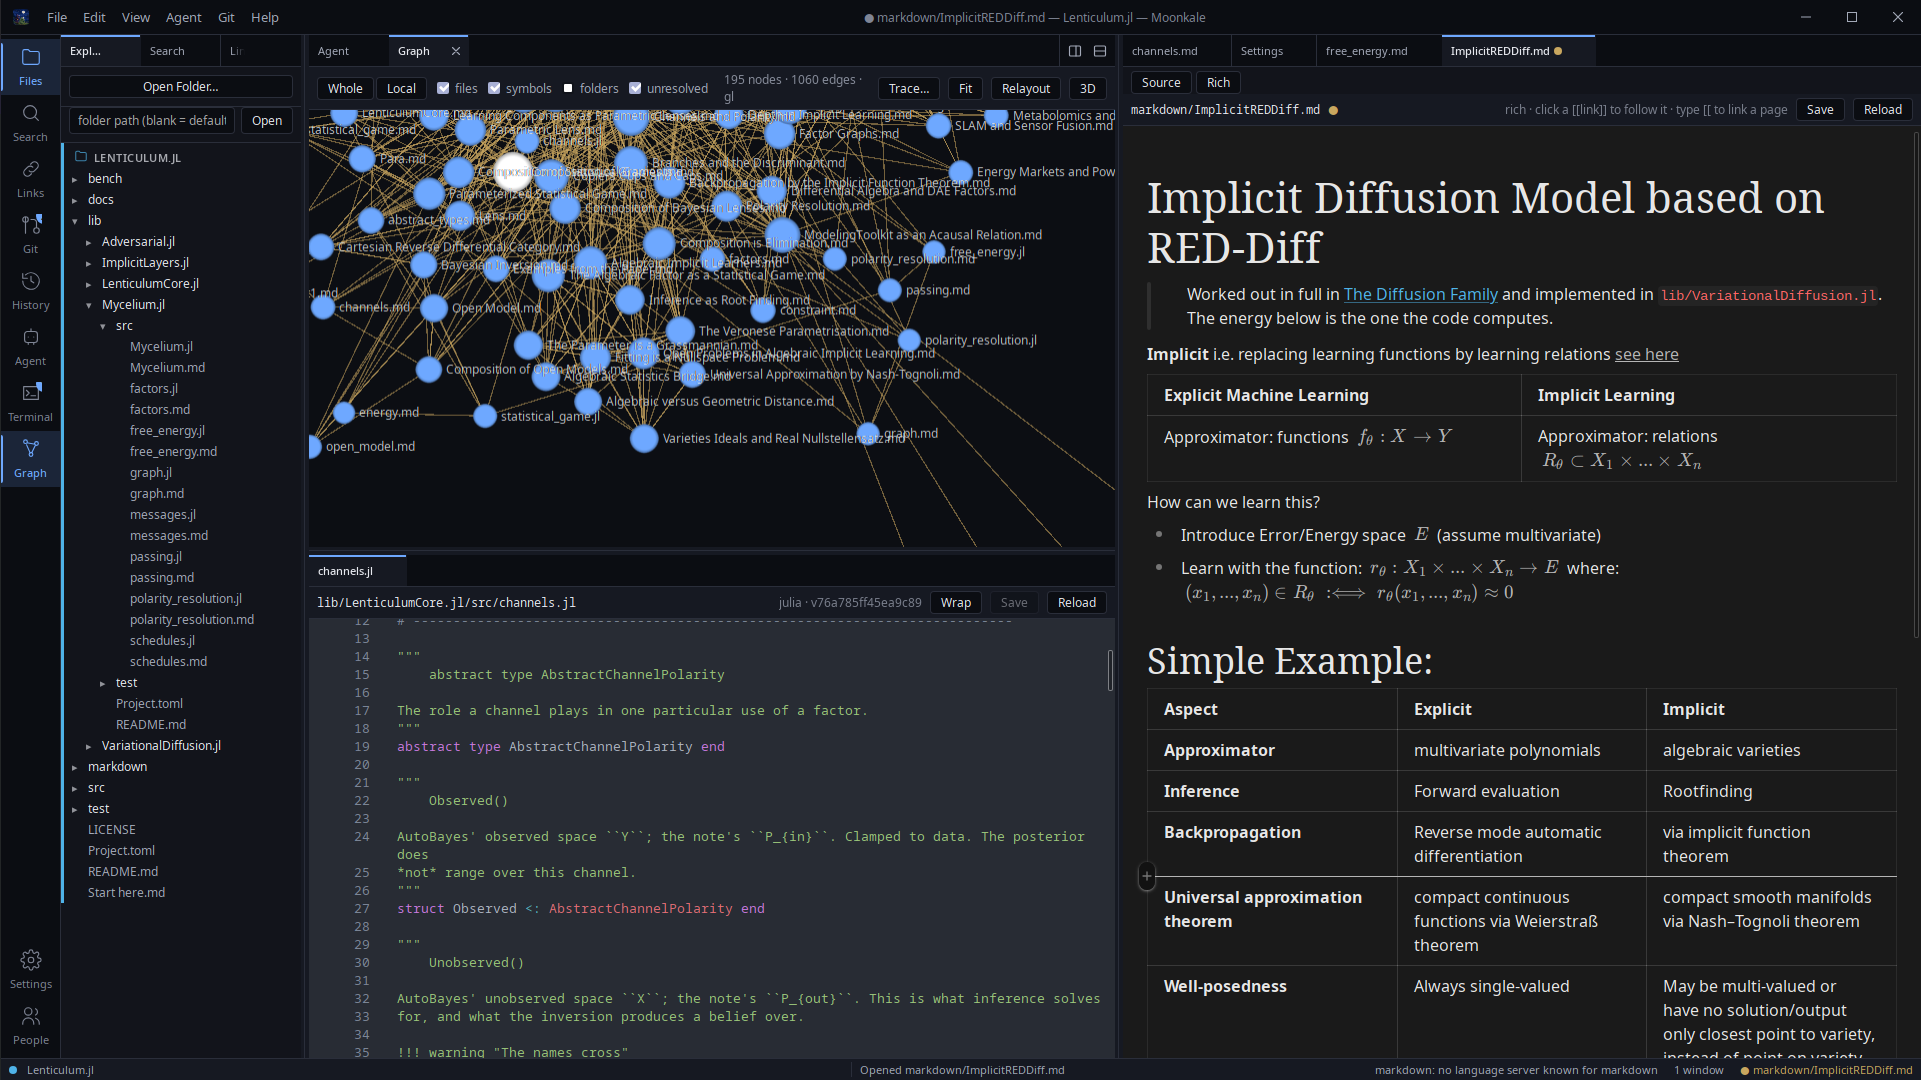
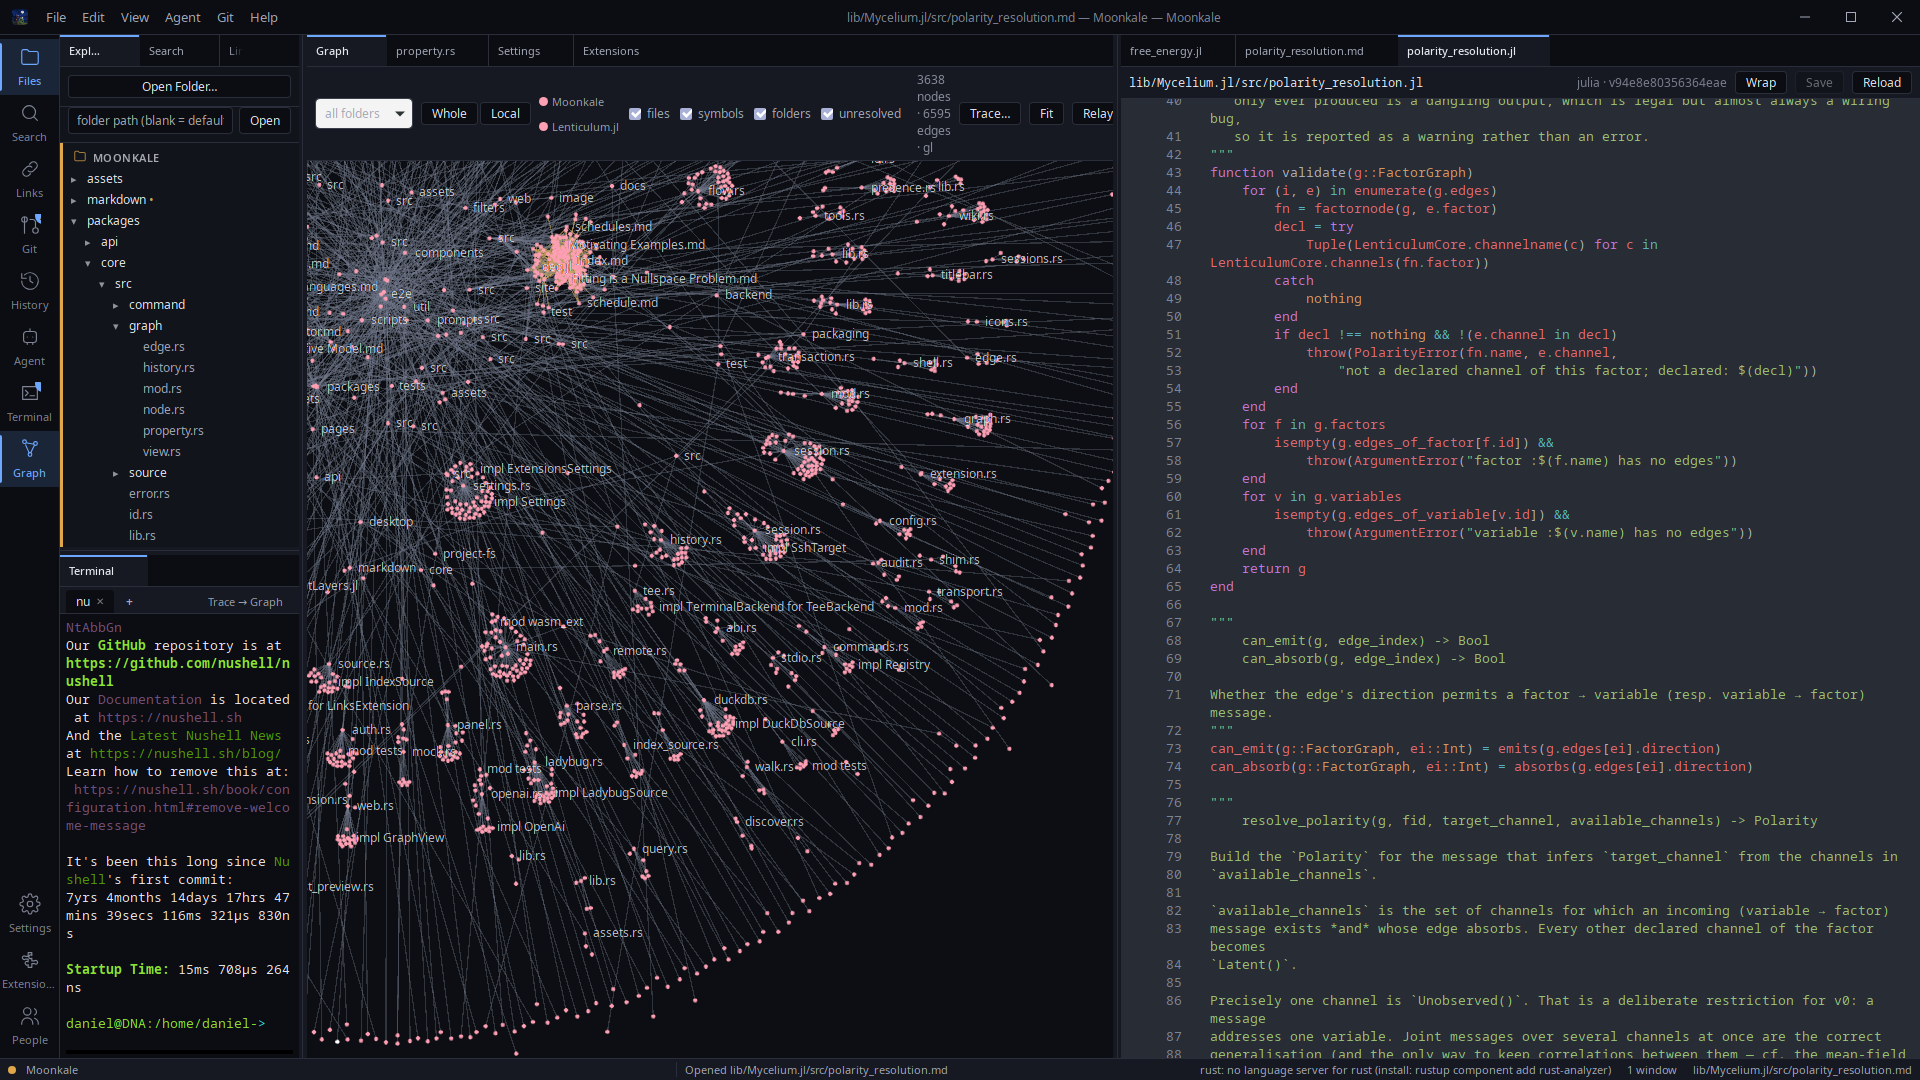
edit README

diff --git a/README.md b/README.md
@@ -1,57 +1,96 @@
 ![Moonkale — a wizard tending a kale plant under a full moon](assets/MoonkaleBanner.png)
 
 <p align="center">
-  <img src="assets/UIDesktop.png" alt="Moonkale on the desktop: activity bar, Explorer, the vault as a graph, a note in the rich editor" width="78%">
+  <img src="assets/UIDesktop.png" alt="Moonkale on the desktop: activity bar, Explorer, the vault as a graph, a file in the code editor" width="78%">
   <img src="assets/UIAndroid.jpg" alt="Moonkale on a phone: rich note above a Rust file, the bottom bar" width="20%">
 </p>
-<p align="center"><sub>Desktop (2026-09-20): the vault's graph next to a note in the rich editor · Phone (Galaxy S10e): a note and a Rust file with the bottom bar.</sub></p>
 
-# Moonkale (Under development)
+# Moonkale
 
 **A graph-native code and knowledge editor.**
 
 [![Latest release](https://img.shields.io/github/v/release/MathStruct/Moonkale?label=download&color=4c8dff)](https://github.com/MathStruct/Moonkale/releases/latest)
-[![Vault](https://img.shields.io/badge/docs-vault-7bd88f)](https://mathstruct.github.io/Moonkale/)
+[![Docs](https://img.shields.io/badge/docs-vault-7bd88f)](https://mathstruct.github.io/Moonkale/)
 [![License: MIT](https://img.shields.io/badge/license-MIT-lightgrey)](LICENSE)
 
-**⬇ Download:** [**the latest release**](https://github.com/MathStruct/Moonkale/releases/latest)
-— Linux (tarball, `.deb`, Arch package, AppImage), Android (`.apk`), Windows
-(`.msi` / `.exe`, unsigned) and macOS (`.dmg`, unsigned). Install instructions
-per platform: [Install](https://mathstruct.github.io/Moonkale/packaging/Install).
-The server alone runs in a container:
-`docker run -p 8080:8080 -v /your/notes:/data ghcr.io/mathstruct/moonkale-server`
-([what the two binaries are](https://mathstruct.github.io/Moonkale/packaging/Two-Binaries)).
+> [!WARNING]
+> **Moonkale is a prototype.** Expect bugs, missing pieces and significant
+> breaking changes: settings, file formats, the extension API and the
+> package layout will all change without migration paths. Try it, and
+> please don't rely on it yet.
 
-Moonkale opens *folders and databases* — a source tree, a Postgres schema, a
-TypeDB or LadybugDB graph, a Redis keyspace, an Obsidian-style wiki — and shows
-them as **one graph**. Every editor is a view on that graph: a code editor with
-language-server support, a WYSIWYG Markdown/Typst editor with wiki-links, a
-table/SQL editor, a GPU-rendered 2D/3D graph view that stays fluid at 100k+
-nodes, a drag-and-drop flow editor (first target: building Lux.jl models), and
-a terminal whose stack traces become clickable subgraphs. Language servers,
-indexers and LLM agents all work on the same graph through the same doors.
+## The idea
 
-It is built in **Rust** with [Dioxus](https://dioxuslabs.com) for desktop, web
-and mobile from a single codebase, and it is **extension-driven**: the built-in
-editors are extensions with no privileged access, so anything they can do, a
-third-party extension can do.
+Code editors, note-taking apps, database tools and no-code tools are separate
+worlds. Moonkale opens folders *and* databases and shows everything as
+**one graph**: files, symbols, wiki-links, tables and relations are nodes and
+edges, and every editor (code, rich text, table, graph, flow, terminal) is a
+view on that graph. Language servers, indexers and LLM agents work on the same
+graph through the same interface as the user.
 
-Moonkale grew out of the frustration that code editors, knowledge editors,
-database tools and no-code tools are separate worlds — and that none of them
-were built with graph databases or retrieval-augmented agents in mind.
+It is written in **Rust** with [Dioxus](https://dioxuslabs.com): one codebase
+for desktop, web and Android. It is **extension-driven**: the built-in editors
+are extensions with no privileged access.
 
-## New here?
+The long-term goal is a graphical editor for factor graphs
+([Lenticulum.jl](https://mathstruct.github.io/Moonkale/architecture/Julia-and-Lenticulum)),
+where a diagram stays a diagram instead of becoming code.
 
-[Getting Started](https://mathstruct.github.io/Moonkale/Getting-Started) —
-Moonkale explained for people who already use VS Code and Obsidian: the
-four ideas, what maps to what, a ten-minute first session.
+## What works today
+
+Tested on Linux (desktop and browser) and on one Android phone:
+
+- **Folders**, local or on another machine over SSH, with an Explorer, quick
+  open, a command palette, and find & replace across files.
+- **Code editing** with syntax highlighting for the core languages and
+  language-server support (diagnostics, hover, go to definition, completion,
+  rename). There are two editors: CodeMirror, and a pure-Rust one.
+- **Notes**: a WYSIWYG Markdown editor with `[[wiki-links]]`, backlinks, KaTeX
+  formulas and front matter, plus a Typst preview.
+- **Graph view** in 2D and 3D, GPU-rendered, for a folder's files, links and
+  symbols, usable with 100k nodes.
+- **Databases**: SQLite, DuckDB (including folders of CSV/Parquet files) and
+  LadybugDB (Cypher), as tables and as graphs.
+- **Terminal**: stack traces in it become clickable graphs.
+- **Git**: changes, diffs, staging, commits and history as a graph.
+- **Search**: keyword search, plus meaning-based search when an embedding
+  model is configured.
+- **Change history**: a record of every edit (yours, an agent's or git's),
+  with restore.
+- **LLM agents**: Claude Code (on a subscription), Anthropic, OpenAI-compatible
+  and Ollama. They read, search, query and edit behind an approval gate. There
+  is also an MCP endpoint for external agents.
+- **Extensions**: WebAssembly extensions, and a node-based flow editor with a
+  Lux.jl block library (off by default).
+- **Server mode**: `moonkale-server` serves the same app to a browser or to
+  the phone.
+
+Windows and macOS builds are produced but **untested**: nobody on the project
+has those machines.
+
+## Planned
+
+- More data sources: Postgres, Turso, TypeDB, HelixDB, FalkorDB, Redis. These
+  are only stubs today.
+- Projects that combine several sources, and links across them.
+- The Julia side, in a separate repository: a Julia package source, a
+  ModelingToolkit editor, and the Lenticulum.jl factor-graph editor.
+- Automatic refresh of the file tree when files change on disk, and a
+  refresh button for sources that aren't watched.
+- Shared editing on one server: accounts, presence, merged edits.
+- Comments anchored to files, rows and nodes, with GitHub issues as one
+  kind of comment. Also Jupyter notebooks and Unicode input (`\int` → ∫).
+- Fewer JavaScript dependencies: the terminal and a code editor already have
+  Rust replacements.
+
+The design notes behind all of this, one note per decision, are the
+[documentation site](https://mathstruct.github.io/Moonkale/).
 
 ## Install
 
-Packages for every release are on the
-[releases page](https://github.com/MathStruct/Moonkale/releases). Releases are
-named `moonkale-YYMMDD-prototype-<commit>` (e.g. `moonkale-260926-prototype-342cd5d`)
-and `<release>` below stands for that name; expect breaking changes between them.
+Download from the [releases page](https://github.com/MathStruct/Moonkale/releases).
+Releases are named `moonkale-YYMMDD-prototype-<commit>`; `<release>` below
+stands for that name.
 
 | platform | file | install |
 |---|---|---|
@@ -60,155 +99,28 @@ and `<release>` below stands for that name; expect breaking changes between them
 | Nix / NixOS | (from source) | `nix profile install github:MathStruct/Moonkale` |
 | Debian/Ubuntu (tarball) | `<release>-linux-x86_64.tar.gz` | unpack, `./bin/moonkale`, or `./install.sh ~/.local` |
 | Android (arm64) | `<release>-android-arm64.apk` | sideload, or `adb install -r <file>` |
-| Windows / macOS | `.msi` / `.exe` / `.dmg` | **unsigned and untested** — see the install page |
+| Windows / macOS | `.msi` / `.exe` / `.dmg` | **unsigned and untested**, see the install page |
+| Server only | container | `docker run -p 8080:8080 -v /your/notes:/data ghcr.io/mathstruct/moonkale-server` |
 
-Details, what the unsigned warnings mean, and how to report a problem:
-[Install](https://mathstruct.github.io/Moonkale/packaging/Install). To build
-the packages yourself: `packaging/build-release.sh` (Linux) — the same script
-the release workflow runs.
+Details and troubleshooting:
+[Install](https://mathstruct.github.io/Moonkale/packaging/Install).
+New to it? [Getting Started](https://mathstruct.github.io/Moonkale/Getting-Started)
+explains Moonkale for people who use VS Code and Obsidian. To build it
+yourself: [Development](markdown/Development.md).
 
 ## Feedback
 
-Bugs, feature requests, suggestions, design flaws and "I cannot get it to work":
-[open an issue](https://github.com/MathStruct/Moonkale/issues/new/choose) — pick the
-kind and the form labels it for you. What makes a report useful and what happens
-to it afterwards: <https://mathstruct.github.io/Moonkale/Feedback>.
-
-## Where it stands
-
-**Milestone 15 — "Agents, profiles and connections"** (2026-09-22). Saved
-agents (language-model profiles) in Settings, one chosen per session; the
-Agent panel runs several sessions at once and keeps their history in the
-folder; a Log in button for Claude Code (the CLI's browser flow in a
-terminal tab); saved SSH connections; extension settings only with the
-extension.
-
-**Milestone 14 — "A Rust code editor"** (2026-09-21). A second code
-editor built on `dioxus-code-editor` — tree-sitter highlighting compiled to
-Rust and wasm for every core language, Lean, Nix and Typst included — next
-to CodeMirror, switchable per document; the word under the caret is a
-workspace signal for both.
-
-**Milestone 13 — "Packaging"** (2026-09-21). Packages to hand to friends:
-an Arch package, a `.deb`, a Nix flake, a tarball with an installer, and a
-GitHub release workflow that also produces Windows and macOS bundles
-(unsigned, untested). Every extension's settings now sit with the extension
-in the Extensions panel.
-
-**Milestone 12 — "Agents and a native terminal"** (2026-09-21). Claude
-Code is one of Moonkale's agents — on the subscription, no API key — and
-agent sessions can live on the server, finishing without a window and
-readable from the phone, which can now *Connect to Server…*. The first
-JavaScript-free editor: a Rust/Dioxus terminal next to the xterm.js one,
-with a chooser. An Extensions button in the activity bar.
-
-**Milestone 11 — "Remote"** (2026-09-21). *File → Open Remote Folder…*:
-the system `ssh` runs in a terminal tab (your keys, agent, passwords and
-host-key prompts, untouched by Moonkale), Moonkale's own server is copied to
-the host once per version and started on its loopback with a per-session
-token over stdin, the port is forwarded — the folder, index, LSP, git and
-terminal run *there*, the editor, the graph and the LLM keys stay *here*;
-closing the folder ends everything. A standalone `moonkale-server` with
-built-in TLS, a terminal switch and Origin checks for the servers you
-expose. Also `moonkale --ssh host:/path`.
-
-**Milestone 10 — "Daily use"** (2026-09-21). Nineteen small specifications
-from daily use, all done: KaTeX formulas and Obsidian-style `[[wiki-links]]`
-in the rich editor, syntax highlighting for the core languages, word wrap,
-closeable panels, an image viewer, an activity bar with menus and source
-icons, front matter as properties, two-finger gestures on Android.
-
-**Milestone 9 — "Second halves"** (2026-09-19). History you can act on —
-compaction into snapshots and *Restore* of any earlier text as an unsaved
-edit with provenance; presence with cursor lines in the editor gutter and a
-desktop hub client; node dragging in 3D; DuckDB — `.duckdb` files and
-folders of CSV/TSV/Parquet as queryable tables. And the first **Android**
-build: the release APK runs on a Galaxy S10e (phone shell, editor with the
-soft keyboard, save + history, graph on WebGL2). Twenty-seven automated
-browser suites.
-
-**Milestone 8 — "Research"** (2026-09-19). An entity log of every
-change in a workspace (user, agent or git checkpoint) with a History panel
-that shows any file as it was after any event; presence — who else is in
-the folder and what they look at; a 3D graph with one plane per node kind
-and an orbiting camera; and wasm extensions running in the browser (a
-Worker with a SharedArrayBuffer mailbox, host calls answered by the
-client). Twenty-six automated browser suites cover it, one of them the
-first to exercise the wgpu renderer (Chromium + SwiftShader).
-
-**Milestone 7 — "Daily driver"** (2026-09-19). A command palette
-and quick open over a command registry with rebindable keys; file operations
-in the Explorer (new, rename, move, delete to trash) that open documents and
-the index follow; find & replace in a file and across the workspace; the
-second half of LSP (completion, rename, code actions, references); git as a
-Changes panel with diffs, staging, commits and the history drawn as a graph;
-and an access token so the web server can be exposed. Twenty-three
-automated browser suites cover it.
-
-**Milestone 6 — "Scale & extend"** (2026-09-19). Extensions are
-a managed catalog (Settings → Extensions toggles them and grants permissions;
-the Flow editor and the Lux.jl library ship off); a flow editor with typed
-ports and block libraries contributed by extensions; a Lux.jl library that
-generates `model.jl`; third-party wasm extensions (core modules, JSON ABI,
-wasmtime, permissions enforced at the host boundary) whose commands become
-agent tools; Barnes–Hut layout that settles 100k nodes at ~170 ms/step; a
-phone-sized shell below 700 px. Seventeen automated browser suites cover it.
-
-**Milestone 5 — "Settings & writing"** (2026-09-18). Moonkale
-remembers layouts, open documents and recent folders per workspace, and
-provider/policy choices in two scopes (machine and folder) with a Settings
-panel (`Ctrl+,`); markdown has a Rich (WYSIWYG) mode; the agent can edit
-files and run commands through diff/command cards under the policy gate;
-an MCP endpoint lets Claude Code and other external agents query the open
-workspace. Twelve automated browser suites cover it.
-
-**Milestone 4 — "Agents"** (2026-09-18). An in-app agent
-(Anthropic, OpenAI-compatible, Ollama, or an offline mock) that lists the
-open sources, browses the graph, reads files, runs read-only SQL/Cypher and
-searches — every tool call through a policy gate with approval prompts and
-an audit log, transcripts saved as indexed pages; hybrid search (BM25 +
-optional embeddings, Ctrl+Shift+F); stack traces and compiler errors drawn
-as graphs from the terminal. That sits on Milestone 3's terminal, Typst
-preview, LSP client and LadybugDB source; Milestone 2's index, wgpu graph
-view, backlinks and SQLite tables; and Milestone 1's dockable workbench —
-desktop and web from one codebase. Eleven automated browser suites cover it.
-
-Still comment-only skeleton: Postgres/Falkor/KV drivers, browser-side wasm
-extensions, collaboration. The **design vault** in `markdown/`
-records every decision and is published at
-**<https://mathstruct.github.io/Moonkale/>**; each implemented crate also has
-a `<crate>.md` next to its code.
-
-Next: Android folder access through the Storage Access Framework and a signed release; then Postgres/Turso, TypeDB/Helix, a JS-free desktop and CRDT text merge — all waiting for an environment or a milestone of their own.
+Bugs, ideas and "I cannot get it to work" all welcome: [open an
+issue](https://github.com/MathStruct/Moonkale/issues/new/choose). Reports on
+Windows and macOS are especially useful, since that's the only testing those
+builds get. More in [Feedback](https://mathstruct.github.io/Moonkale/Feedback).
 
 ## License
 
-Moonkale is released under the **MIT License** — see [LICENSE](LICENSE).
-
-That covers the code in this repository. What you *build* also contains
-third-party software under its own licenses, all permissive but not all
-MIT — a binary or bundle is a combination, and their notices travel with
-it:
-
-- Rust crates: 991 in the lock file, mostly `MIT OR Apache-2.0`; notable
-  ones bundled into the binaries are **DuckDB** (MIT), **LadybugDB/Kuzu** (MIT),
-  **wasmtime** (Apache-2.0 WITH LLVM-exception), **Typst** (Apache-2.0),
-  **tree-sitter** and its grammars (MIT), **rustls** (Apache-2.0/ISC/MIT),
-  the **ICU4X** crates (Unicode-3.0), `webpki-roots` (CDLA-Permissive-2.0),
-  `option-ext` (MPL-2.0). No GPL/LGPL-only crate is in the tree.
-- JavaScript bundled into the app: **CodeMirror**, **Milkdown**, **xterm.js**,
-  **KaTeX** (all MIT); the KaTeX **fonts** are SIL Open Font License 1.1.
-- The documentation site is built with **Quartz** (MIT).
-
-To list every dependency with its license: `cargo install cargo-license`
-then `cargo license` in the workspace (Rust), and `npm ls --all` with
-`license-checker` in each `packages/js/*` package (JavaScript).
-
-## Learn more
-
-- Website / design docs: <https://mathstruct.github.io/Moonkale/>
-- Start with *Overview*, then *Project Structure*, then *Roadmap*.
-- Building, running, testing and how the site is published: the
-  [Development](markdown/Development.md) page.
+**MIT**, see [LICENSE](LICENSE). Built binaries also contain third-party
+software under its own permissive licenses: DuckDB, LadybugDB, wasmtime,
+Typst, tree-sitter, ICU4X, CodeMirror, Milkdown, xterm.js, KaTeX and its
+fonts (OFL). No GPL-only dependency is included. The full list:
+[Licensing](https://mathstruct.github.io/Moonkale/platform/Licensing).
 
 Moonkale is a [MathStruct](https://mathstruct.github.io/) project.
